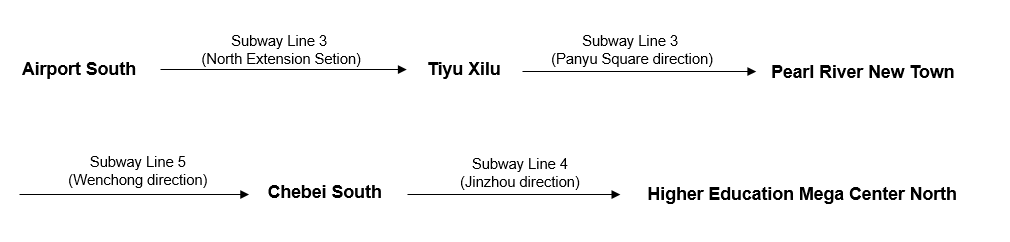
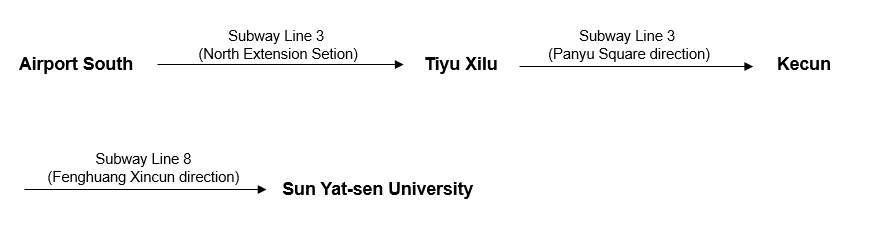
完成任务5.20 (#16)
* 完善venue部分，修改地铁路线终点

* 完成任务5.20

Changed region(s): [[0.0, 0.1233, 0.9522, 0.3392], [0.0307, 0.6476, 0.9522, 0.8634]]

diff --git a/ITW/templates/registration/registration.html b/ITW/templates/registration/registration.html
@@ -17,54 +17,54 @@
             <thead>
             <tr>
                 <th>Categories</th>
-                <th>Early Reg.(RMB)</th>
-                <th>Early Reg.(USD)</th>
-                <th>Late Reg.(RMB)</th>
-                <th>Late Reg.(USD)</th>
+                <th class="text-center">Early Reg. (RMB)</th>
+                <th class="text-center">Early Reg. (USD)</th>
+                <th class="text-center">Late Reg. (RMB)</th>
+                <th class="text-center">Late Reg. (USD)</th>
             </tr>
             </thead>
             <tbody>
             <tr>
                 <td>Full Registration (IT soc)</td>
-                <td>3990</td>
-                <td>570</td>
-                <td>4690</td>
-                <td>670</td>
+                <td class="text-center">3990</td>
+                <td class="text-center">570</td>
+                <td class="text-center">4690</td>
+                <td class="text-center">670</td>
             </tr>
             <tr>
                 <td>Full Registration (IEEE non IT soc)</td>
-                <td>4550</td>
-                <td>650</td>
-                <td>5250</td>
-                <td>750</td>
+                <td class="text-center">4550</td>
+                <td class="text-center">650</td>
+                <td class="text-center">5250</td>
+                <td class="text-center">750</td>
             </tr>
             <tr>
                 <td>Full Registration (Non IEEE)</td>
-                <td>5250</td>
-                <td>750</td>
-                <td>5950</td>
-                <td>850</td>
+                <td class="text-center">5250</td>
+                <td class="text-center">750</td>
+                <td class="text-center">5950</td>
+                <td class="text-center">850</td>
             </tr>
             <tr>
                 <td>Student IT Soc / IEEE Life Member</td>
-                <td>1540</td>
-                <td>220</td>
-                <td>2240</td>
-                <td>320</td>
+                <td class="text-center">1540</td>
+                <td class="text-center">220</td>
+                <td class="text-center">2240</td>
+                <td class="text-center">320</td>
             </tr>
             <tr>
                 <td>Student (IEEE non IT soc)</td>
-                <td>1890</td>
-                <td>270</td>
-                <td>2590</td>
-                <td>370</td>
+                <td class="text-center">1890</td>
+                <td class="text-center">270</td>
+                <td class="text-center">2590</td>
+                <td class="text-center">370</td>
             </tr>
             <tr>
                 <td>Student (Non IEEE)</td>
-                <td>2240</td>
-                <td>320</td>
-                <td>2940</td>
-                <td>420</td>
+                <td class="text-center">2240</td>
+                <td class="text-center">320</td>
+                <td class="text-center">2940</td>
+                <td class="text-center">420</td>
             </tr>
             </tbody>
         </table>

diff --git a/ITW/templates/footer.html b/ITW/templates/footer.html
@@ -10,21 +10,21 @@
               <a href="http://www.itsoc.org/" target="_blank"><img src="{{ url_for('static',filename='images/IT.png') }}" alt="IT"></a>
             </div>
             <div class="col-lg-3 col-md-2 col-sm-2 col-xs-2 sponser-img">
-              <a href="http://www.ieccr.net/cieit/index.asp" target="_blank"><img src="{{ url_for('static',filename='images/ITS.jpg') }}" alt="ITS"></a>
-            </div>
-            <div class="col-lg-3 col-md-2 col-sm-2 col-xs-2 sponser-img">
               <a href="http://www.sysu.edu.cn" target="_blank"><img src="{{ url_for('static',filename='images/SYSU.jpg') }}" alt="SYSU"></a>
             </div>
-        </div>
-        <div class="row">
             <div class="col-lg-3 col-md-2 col-sm-2 col-xs-2 sponser-img">
               <a href="http://www.swjtu.edu.cn/" target="_blank"><img src="{{ url_for('static',filename='images/XJU.jpg') }}" alt="XJU"></a>
             </div>
+        </div>
+        <div class="row">
             <div class="col-lg-3 col-md-2 col-sm-2 col-xs-2 sponser-img">
               <a href="http://www.dgut.edu.cn/" target="_blank"><img src="{{ url_for('static',filename='images/DG.jpg') }}" alt="DG"></a>
             </div>
             <div class="col-lg-3 col-md-2 col-sm-2 col-xs-2 sponser-img">
               <a href="http://www.huawei.com/cn/" target="_blank"><img src="{{ url_for('static',filename='images/HUAWEI.png') }}" alt="HUAWEI"></a>
+            </div>
+            <div class="col-lg-3 col-md-2 col-sm-2 col-xs-2 sponser-img">
+              <a href="http://www.ieccr.net/cieit/index.asp" target="_blank"><img src="{{ url_for('static',filename='images/ITS.jpg') }}" alt="ITS"></a>
             </div>
         </div>
       </section>

diff --git a/ITW/templates/venue/venue.html b/ITW/templates/venue/venue.html
@@ -36,7 +36,7 @@
         <p>1) By Taxi: cost ~ 200 RMB, time ~ 50 mins, <a href="{{ url_for('main.show_driver',content='广州市海珠区滨江东路中大北门中大凯丰酒店（中大学人馆）') }}">show the driver</a></p>
         <p>3) By Metro: cost 12 RMB, time ~ 1 hr 30 mins</p>
         <p>Note that Sun Yat-sen University metro station is 2km away from the venue. You are recommended to further take a taxi from the station.</p>
-        <div><img src="{{ url_for('static', filename='images/venue/route1.png') }}" width="100%"></div>
+        <div><img src="{{ url_for('static', filename='images/venue/route1.png') }}" width="90%"></div>
         <br>
     </section>
 
@@ -47,7 +47,7 @@
         <p>1) By Taxi: cost ~ 40 RMB, time ~ 25 mins, <a href="{{ url_for('main.show_driver',content='广州市海珠区滨江东路中大北门中大凯丰酒店（中大学人馆）') }}">show the driver</a></p>
         <p>2) By Metro: cost 4 RMB, time ~ 23 mins</p>
         <p>Note that Sun Yat-sen University metro station is 2km away from the venue. You are recommended to further take a taxi from the station.</p>
-        <div><img src="{{ url_for('static', filename='images/venue/route2.png') }}" width="90%"></div>
+        <div><img src="{{ url_for('static', filename='images/venue/route2.png') }}" width="100%"></div>
     </section>
 </article>
 

diff --git a/ITW/static/css/main.css b/ITW/static/css/main.css
@@ -138,6 +138,10 @@ nav .dropdown-menu li:focus > a,nav .dropdown-menu li:hover > a {
     color: #000;
 }
 
+#scope-of-submission li{
+    list-style: square;
+}
+
 .campus-row {
     padding-top:20px;
     padding-bottom: 20px;
@@ -186,16 +190,17 @@ nav .dropdown-menu li:focus > a,nav .dropdown-menu li:hover > a {
     text-decoration: underline;
 }
 
-.table {
-  border: 2px solid rgba(122,197,205,0.5);
+table#at-glance {
+  border: 2px solid #CCC;
 }
+
 .table-bordered > thead > tr > th,
 .table-bordered > tbody > tr > th,
 .table-bordered > tfoot > tr > th,
 .table-bordered > thead > tr > td,
 .table-bordered > tbody > tr > td,
 .table-bordered > tfoot > tr > td {
-   border: 2px solid rgba(122,197,205,0.5);
+   border: 2px solid #CCC;
 }
 
 #at-glance th, #at-glance td {

diff --git a/ITW/templates/main/home.html b/ITW/templates/main/home.html
@@ -20,7 +20,7 @@
         </h4>
         <p style="margin-bottom: 0">Original papers on Information and Coding Theory are encouraged for submission. Our special interests that do not limit the scope of submission include</p>
 
-        <ul>
+        <ul id="scope-of-submission">
             <li>Information Theory and its Applications</li>
             <li>Frontiers of Coding Theory and Practice</li>
             <li>Boundaries between Information Theory and Data Science, Biology and Signal Processing</li>
